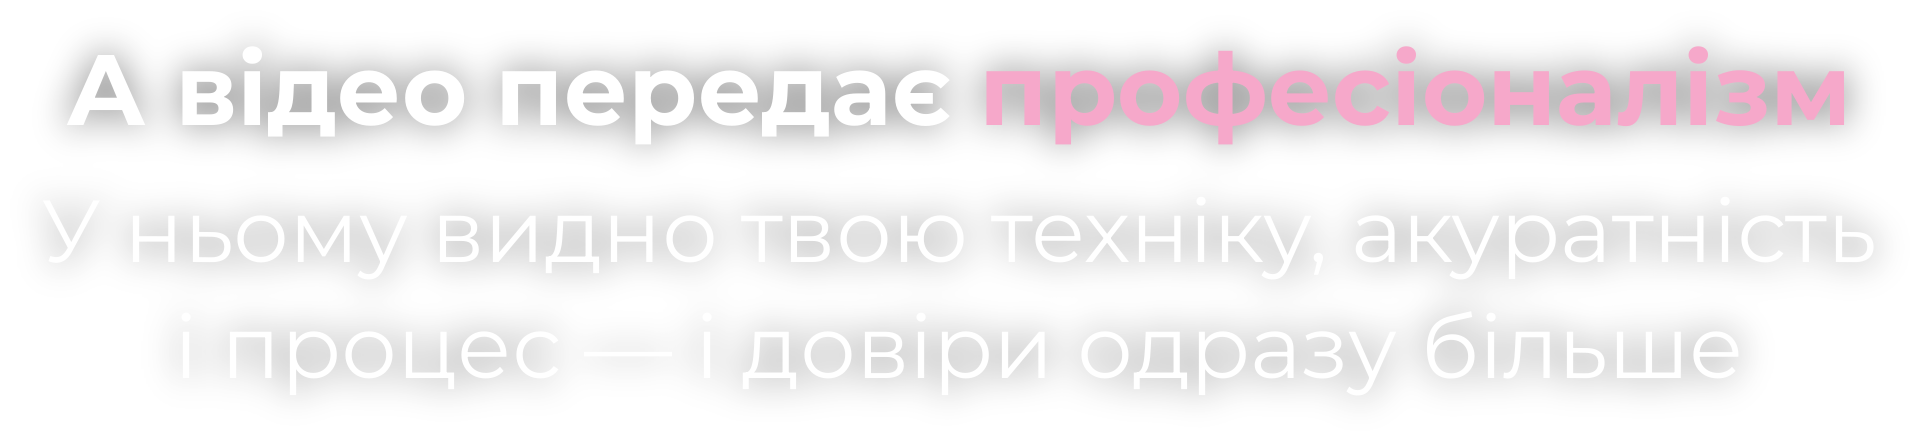
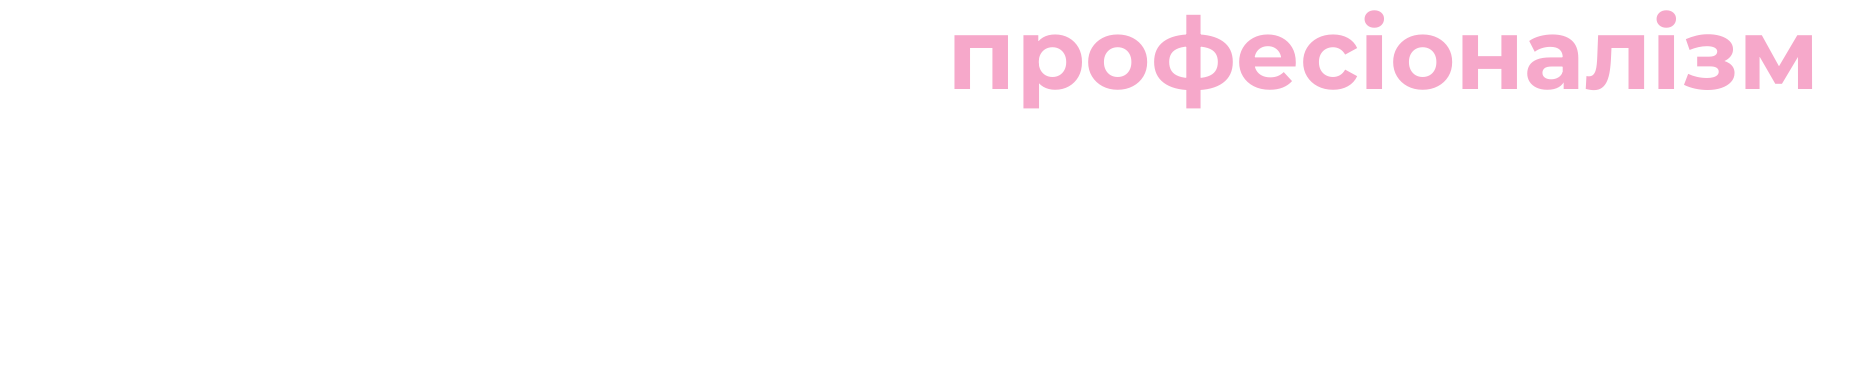
Стікер 4 сторі: без тіні, лише букви на прозорому фоні
Claude-Session: https://claude.ai/code/session_0191xVL2hi5vHUvM1ix6pauC

diff --git a/stickers/build_sticker.py b/stickers/build_sticker.py
@@ -31,6 +31,6 @@ for pi,(b,f) in enumerate(parts):
     y+=8*SC
 if emo:
     e=Image.new('RGBA',(220,220),(0,0,0,0)); ImageDraw.Draw(e).text((10,10),emo,font=E,embedded_color=True); e=e.crop(e.getbbox()); h=48*SC; e=e.resize((int(e.width*h/e.height),h),Image.LANCZOS); L.alpha_composite(e,(int(last[0]),int(last[1]+2*SC)))
-a=L.split()[3]; sh=a.filter(ImageFilter.GaussianBlur(9*SC)).point(lambda v:int(v*0.55))
+a=L.split()[3]; sh=a.filter(ImageFilter.GaussianBlur(9*SC)).point(lambda v:0 if os.environ.get('NOSH') else int(v*0.55))
 o=Image.new('RGBA',(W,H),(0,0,0,0)); s=Image.new('RGBA',(W,H),(0,0,0,255)); s.putalpha(sh); o=Image.alpha_composite(o,s); o=Image.alpha_composite(o,L)
 bb=o.getbbox(); o=o.crop((bb[0]-10,bb[1]-10,bb[2]+10,bb[3]+10)); o.save(out); print(o.size)
